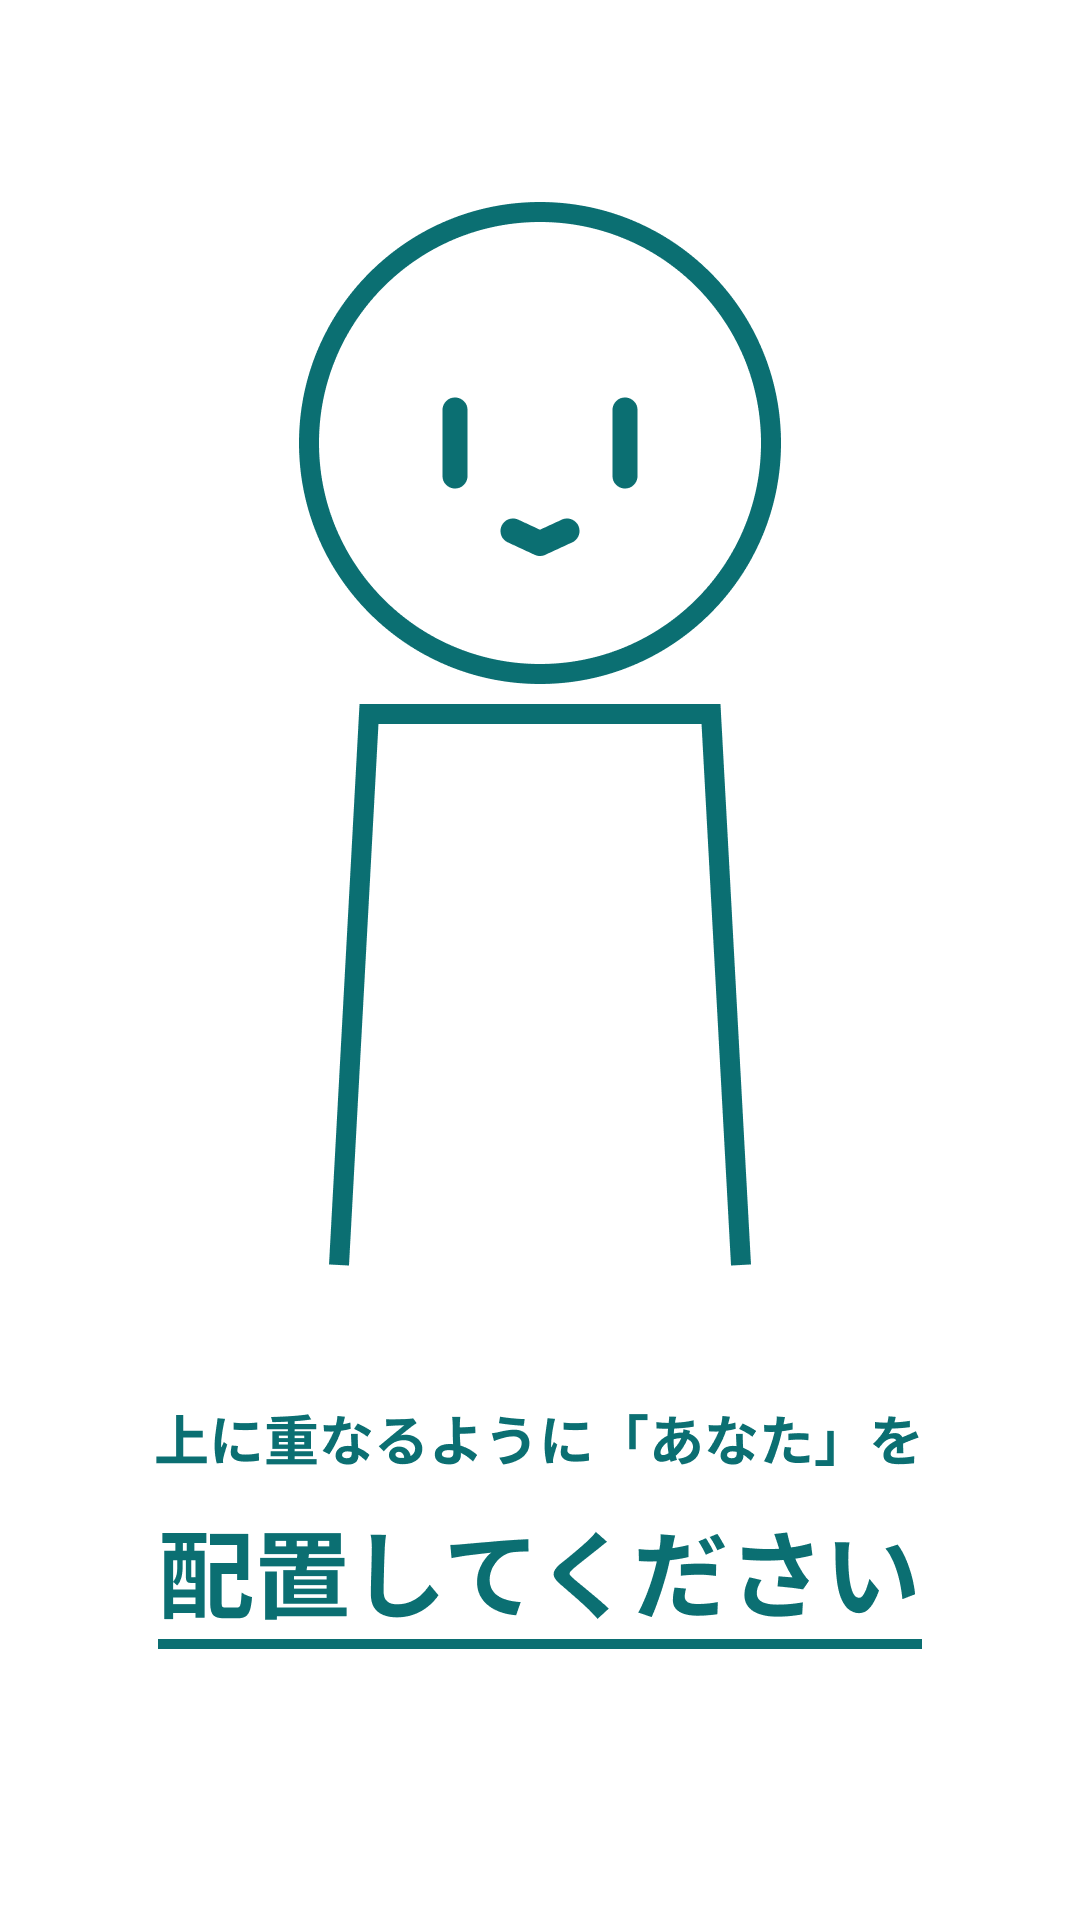
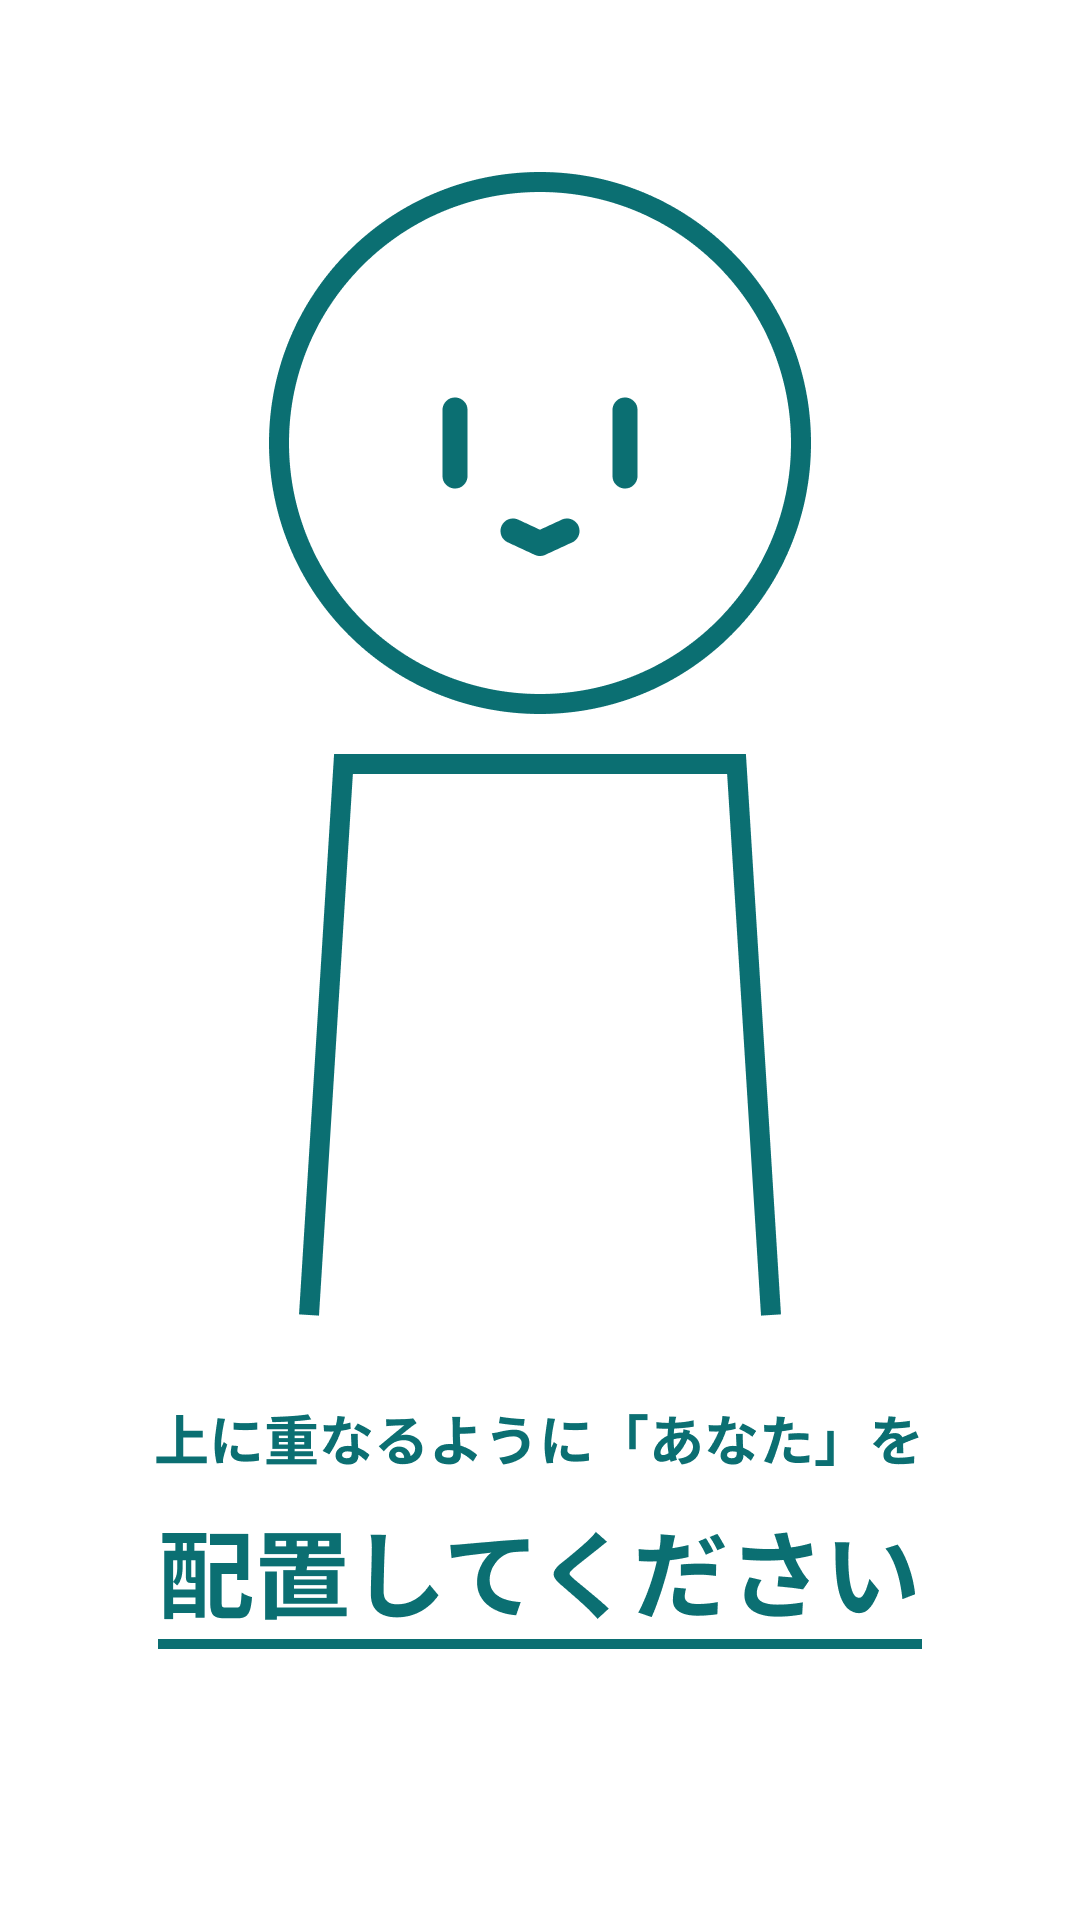
fix(app-omucafe): アバターを大きめに設定するように目安画像を更新

Changed region(s): [[0.2444, 0.0625, 0.7639, 0.6875]]

diff --git a/packages-js/site/src/routes/app/omucafe/scenes/photo/photo.ts b/packages-js/site/src/routes/app/omucafe/scenes/photo/photo.ts
@@ -49,7 +49,7 @@ const LAYOUT = {
     ITEM_SPACE: 400,
     ITEM_Y_OFFSET: 400,
     CLIENT_CONTAINER_SHRINK: { x: 100, y: 100 },
-    CLIENT_DUMMY_Y_OFFSET: 0,
+    CLIENT_DUMMY_Y_OFFSET: -50,
     DATE_TEXT_POSITION: { x: 0.25, y: 0.85 },
     DATE_TEXT_SHADOW_OFFSET: { x: 2, y: 2 },
 } as const;
